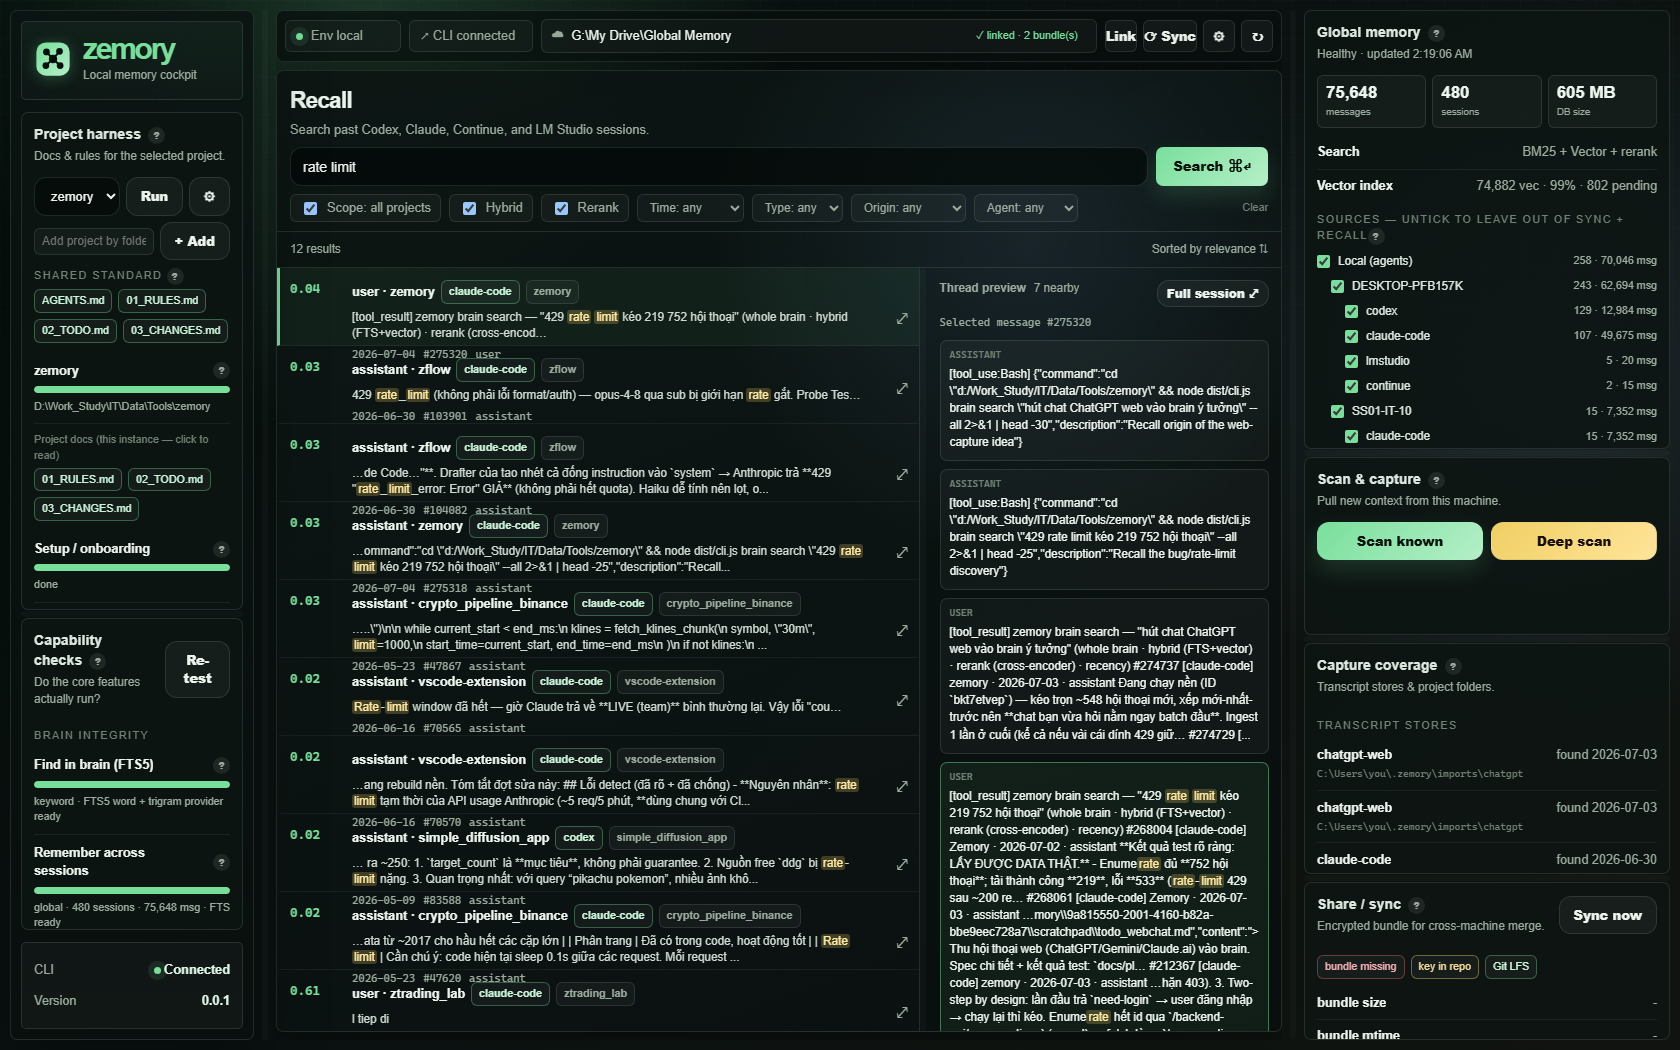
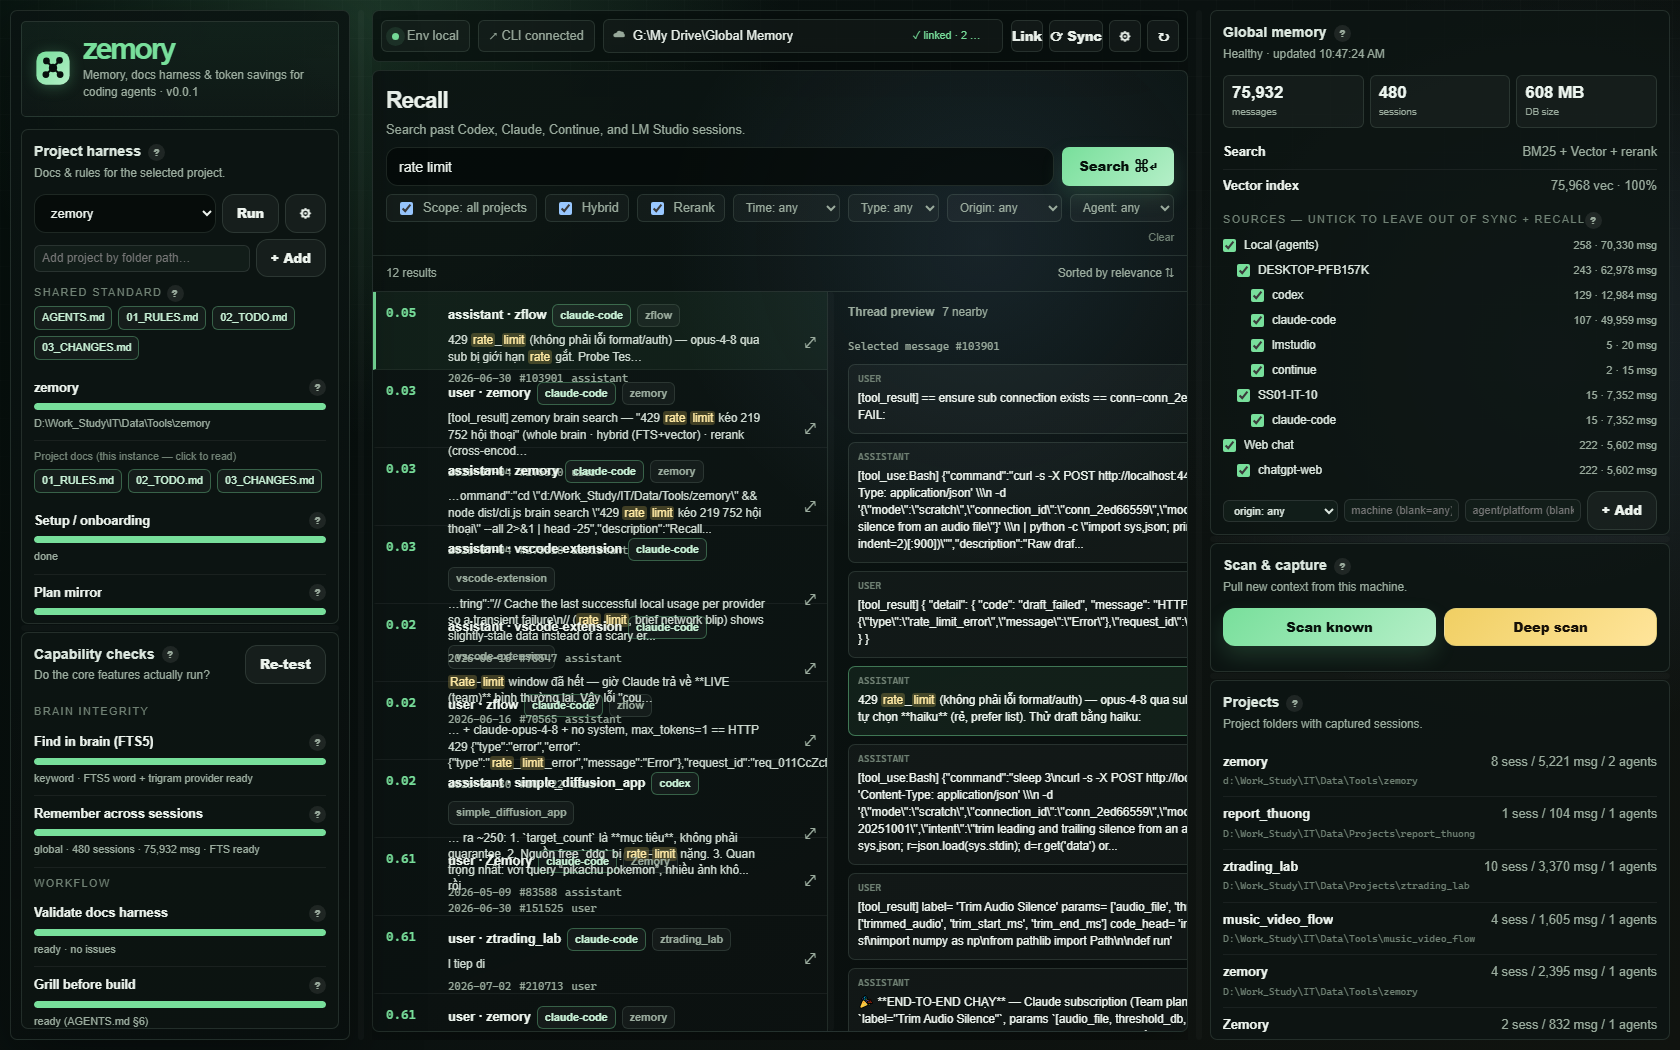
ui: trim redundant panels, sync progress modal, responsive command bar
- remove the Share/sync panel (Sync + status duplicated the top bar; the
  bundle/key/Git-LFS chips described the superseded in-repo LFS flow)
- Capture coverage -> Projects: drop the transcript-store paths (overlapped the
  Sources tree and leaked usernames); keep the project-folder breakdown
- remove the rail-foot CLI/Version block; move the version into the brand line;
  brand tagline now: "Memory, docs harness & token savings for coding agents"
- cross-machine Sync now opens a progress modal (spinner + steps + elapsed
  timer, then a result summary with a Close button) instead of one faint line;
  a full-brain export runs a few minutes on a large DB, so it no longer looks
  stuck
- command bar is responsive: status fields shrink, the drive box truncates, and
  the buttons keep their room instead of clipping on a narrow window
- workspace/recall grid fixes; refresh the cockpit hero screenshot

diff --git a/src/ui-page.ts b/src/ui-page.ts
@@ -211,9 +211,10 @@ export const PAGE = String.raw`<!doctype html><html><head><meta charset="utf-8">
   }
   .commandbar {
     display: grid;
-    grid-template-columns: 116px 124px minmax(220px, 1fr) auto;
+    grid-template-columns: auto auto minmax(0, 1fr) auto;
     gap: 8px;
     align-items: center;
+    min-width: 0;
     border: 1px solid var(--line);
     border-radius: 7px;
     background: rgba(8, 15, 14, .74);
@@ -222,6 +223,7 @@ export const PAGE = String.raw`<!doctype html><html><head><meta charset="utf-8">
   }
   .commandbar .field, .commandbar .search-command {
     min-height: 32px;
+    min-width: 0;
     border: 1px solid var(--line);
     border-radius: 6px;
     background: rgba(255, 255, 255, .035);
@@ -232,13 +234,16 @@ export const PAGE = String.raw`<!doctype html><html><head><meta charset="utf-8">
     color: var(--muted);
     white-space: nowrap;
   }
+  .commandbar .field { flex: 0 0 auto; overflow: hidden; text-overflow: ellipsis; }
   .commandbar select, .commandbar input {
     min-height: 32px;
     border-radius: 6px;
     padding: 0 9px;
     background: rgba(5, 10, 9, .5);
   }
-  .commandbar .search-command input { border: 0; box-shadow: none; background: transparent; padding: 0; }
+  .commandbar .search-command { overflow: hidden; }
+  .commandbar .search-command input { flex: 1 1 auto; min-width: 0; border: 0; box-shadow: none; background: transparent; padding: 0; }
+  .commandbar .drive-state { flex: 0 1 auto; overflow: hidden; text-overflow: ellipsis; }
   .icon-btns { display: flex; gap: 6px; justify-content: flex-end; }
   .icon-btns button { min-width: 32px; height: 32px; padding: 0; border-radius: 6px; }
   .status-deck {
@@ -504,6 +509,12 @@ export const PAGE = String.raw`<!doctype html><html><head><meta charset="utf-8">
   .bar > i { display: block; height: 100%; border-radius: 99px; transition: width .32s ease; }
   .bar > i.ind { width: 45%; animation: slide .8s infinite linear; }
   @keyframes slide { 0% { margin-left: -45%; } 100% { margin-left: 100%; } }
+  @keyframes spin { to { transform: rotate(360deg); } }
+  .spinner { width: 34px; height: 34px; border-radius: 50%; border: 3px solid rgba(255,255,255,.14); border-top-color: var(--green); animation: spin .8s linear infinite; margin: 4px auto 12px; }
+  .sync-box { min-height: 90px; }
+  .sync-step { display: flex; align-items: center; gap: 8px; font-size: 13px; padding: 4px 0; color: var(--muted); }
+  .sync-step b { color: #dce7df; font-weight: 700; }
+  .sync-done { color: var(--green); }
   .q {
     display: inline-block;
     width: 17px; height: 17px; border-radius: 50%;
@@ -627,7 +638,7 @@ export const PAGE = String.raw`<!doctype html><html><head><meta charset="utf-8">
     white-space: pre-wrap;
     font-size: 12px;
   }
-  #overlay, #docOverlay, #sessionOverlay {
+  #overlay, #docOverlay, #sessionOverlay, #syncOverlay {
     display: none;
     position: fixed;
     inset: 0;
@@ -747,7 +758,7 @@ export const PAGE = String.raw`<!doctype html><html><head><meta charset="utf-8">
         <span class="brand-logo"><svg viewBox="0 0 32 32" xmlns="http://www.w3.org/2000/svg" aria-hidden="true"><defs><linearGradient id="zbrand" x1="0" y1="0" x2="1" y2="1"><stop offset="0" stop-color="#78df9b"/><stop offset="1" stop-color="#b5efc8"/></linearGradient></defs><rect x="2" y="2" width="28" height="28" rx="8" fill="url(#zbrand)"/><g stroke="#08100e" stroke-width="1.7" stroke-linecap="round" stroke-linejoin="round" fill="#08100e"><path fill="none" d="M16 16 L10.5 10 M16 16 L21.5 9.5 M16 16 L22 21.5 M16 16 L10 21.5"/><circle cx="16" cy="16" r="2.7"/><circle cx="10.5" cy="10" r="2"/><circle cx="21.5" cy="9.5" r="2"/><circle cx="22" cy="21.5" r="2"/><circle cx="10" cy="21.5" r="2"/></g></svg></span>
         <div class="brand-text">
           <h1>zemory</h1>
-          <p>Local memory cockpit</p>
+          <p>Memory, docs harness & token savings for coding agents · v0.0.1</p>
         </div>
       </div>
       <div class="rail-scroll">
@@ -764,10 +775,6 @@ export const PAGE = String.raw`<!doctype html><html><head><meta charset="utf-8">
           <div class="panel-head"><div><h3>Capability checks<span class="q" title="Live probes that zemory's core capabilities actually run on this machine: full-text + Vietnamese search, cross-session recall, docs-harness validation, and the grill workflow. Green bar = working. NOT about compression (dropped).">?</span></h3><p>Do the core features actually run?</p></div><button class="ghost" onclick="runChecks()">Re-test</button></div>
           <div class="panel-pad" id="checksBody"></div>
         </section>
-      </div>
-      <div class="rail-foot">
-        <div class="foot-row"><span>CLI</span><b><span class="live-dot"></span> Connected</b></div>
-        <div class="foot-row"><span>Version</span><b>0.0.1</b></div>
       </div>
     </aside>
     <div class="resize-handle vertical" data-resize="rail" role="separator" aria-orientation="vertical" tabindex="0" title="Drag to resize sidebar. Double-click to reset."></div>
@@ -854,13 +861,8 @@ export const PAGE = String.raw`<!doctype html><html><head><meta charset="utf-8">
       </section>
       <div class="resize-handle horizontal panel-split" data-resize="split" role="separator" aria-orientation="horizontal" tabindex="0" title="Drag to resize. Double-click to reset."></div>
       <section class="panel" id="coverage" data-grow="insp2" data-grow-default="1.1" style="flex-grow:1.1">
-        <div class="panel-head"><div><h3>Capture coverage<span class="q" title="Where the brain pulls from: the transcript stores it found (Claude/Codex/Continue/LM Studio folders) and the project folders those sessions ran in.">?</span></h3><p>Transcript stores &amp; project folders.</p></div></div>
+        <div class="panel-head"><div><h3>Projects<span class="q" title="Project folders that have captured sessions, with per-project session / message / agent counts.">?</span></h3><p>Project folders with captured sessions.</p></div></div>
         <div class="panel-pad" id="coveragePanel"></div>
-      </section>
-      <div class="resize-handle horizontal panel-split" data-resize="split" role="separator" aria-orientation="horizontal" tabindex="0" title="Drag to resize. Double-click to reset."></div>
-      <section class="panel" id="share" data-grow="insp3" data-grow-default=".75" style="flex-grow:.75">
-        <div class="panel-head"><div><h3>Share / sync<span class="q" title="Encrypted bundle (.zemory.enc) to move memory between machines. 'Sync now' = export THIS machine's bundle into the linked Drive folder + merge every other machine's bundle there. Then run 'zemory brain embed --all' to vectorize new rows. The live DB is never synced.">?</span></h3><p>Encrypted bundle for cross-machine merge.</p></div><button class="ghost" onclick="driveSync()" title="Export my bundle to the Drive folder + merge others">Sync now</button></div>
-        <div class="panel-pad"><div id="syncMsg" class="tiny" style="margin-bottom:8px;white-space:normal"></div><div id="sharePanel"></div></div>
       </section>
     </aside>
   </div>
@@ -871,6 +873,13 @@ export const PAGE = String.raw`<!doctype html><html><head><meta charset="utf-8">
       <button class="opt" onclick="act('/sync')"><b>Sync</b><span>Add missing docs, never overwrite DB source.</span></button>
       <button class="opt warn" onclick="actConfirm('/init-fresh','Rename current docs aside (docs.old-...) and create a fresh set?')"><b>Fresh start</b><span>Keep old docs aside, create clean set.</span></button>
       <button class="opt cancel" onclick="closeMenu()">Cancel</button>
+    </div>
+  </div>
+
+  <div id="syncOverlay" onclick="if(event.target===this && !window.__syncing)closeSyncBox()">
+    <div class="modal">
+      <div class="mtitle">Cross-machine sync</div>
+      <div id="syncBox" class="sync-box"></div>
     </div>
   </div>
 
@@ -1258,10 +1267,7 @@ export const PAGE = String.raw`<!doctype html><html><head><meta charset="utf-8">
     const t = brain.totals || {};
     const vectors = brain.vectors || {};
     const info = brain.info || {};
-    const share = brain.share || {};
     const capture = brain.coverage || {};
-    const captureTotals = capture.totals || {};
-    const stores = capture.stores || [];
     const projects = capture.projects || [];
     el('hybrid').checked = !!brain.hybrid;
     el('rerank').checked = !!brain.rerank;
@@ -1290,19 +1296,7 @@ export const PAGE = String.raw`<!doctype html><html><head><meta charset="utf-8">
       sectionTitle('Tables') +
       ((info.tables || []).map(r => miniRow(r.name, fmtN(r.rows) + (r.detail ? ' · ' + esc(r.detail) : ''))).join('') || '<div class="muted">none</div>') +
       '<div class="path" style="margin-top:8px">' + esc(brain.dbPath || '') + '</div>';
-    el('sharePanel').innerHTML =
-      '<div class="chips">' + chip('bundle ' + (share.bundle && share.bundle.exists ? 'ready' : 'missing'), share.bundle && share.bundle.exists ? 'on' : 'off') +
-      chip('key ' + (share.key && share.key.exists ? 'in repo' : 'missing'), share.key && share.key.exists ? 'warn' : 'off') +
-      chip('Git LFS', share.lfs ? 'on' : 'warn') + '</div>' +
-      '<div class="mini-list" style="margin-top:8px">' +
-      miniRow('bundle size', share.bundle && share.bundle.exists ? fmtBytes(share.bundle.sizeKB) : '-') +
-      miniRow('bundle mtime', share.bundle && share.bundle.mtime ? fmtDay(share.bundle.mtime) : '-') +
-      '<div class="path">' + esc(share.bundle ? share.bundle.path : '') + '</div>' +
-      '</div>';
     el('coveragePanel').innerHTML =
-      sectionTitle('Transcript stores') +
-      (stores.length ? stores.map(s => folderLine(s.source, s.root, 'found ' + fmtDay(s.foundAt))).join('') : '<div class="muted">No transcript stores recorded yet. Run Deep scan once.</div>') +
-      sectionTitle('Project folders') +
       (projects.length ? projects.map(p => folderLine(projName(p.path), p.path, fmtN(p.sessions) + ' sess / ' + fmtN(p.messages) + ' msg / ' + fmtN(p.agents) + ' agents')).join('') : '<div class="muted">No project folders captured yet.</div>');
   }
   // Provenance tree (Local/Web × machine × agent). A ticked box = the lane is
@@ -1451,28 +1445,53 @@ export const PAGE = String.raw`<!doctype html><html><head><meta charset="utf-8">
     } catch(e){ el('sessBody').innerHTML = '<div class="muted">session error: ' + esc(e) + '</div>'; }
   }
   function closeSession(){ el('sessionOverlay').style.display = 'none'; }
+  function closeSyncBox(){ if(!window.__syncing) el('syncOverlay').style.display = 'none'; }
   async function driveSync(){
     const ds = el('driveState'), sb = el('syncBtn');
     ds.className = 'drive-state'; ds.textContent = 'syncing...'; ds.title = ''; if(sb) sb.disabled = true;
-    el('syncMsg').textContent = 'Syncing... scanning this machine + exporting bundle (this can take a moment).';
+    window.__syncing = true;
+    const syncStart = Date.now();
+    el('syncBox').innerHTML =
+      '<div class="spinner"></div>' +
+      '<div class="sync-step"><b>Syncing…</b><span id="syncElapsed" style="margin-left:auto;font-variant-numeric:tabular-nums;color:#dce7df">0:00</span></div>' +
+      '<div class="sync-step">1 · scanning this machine for new sessions</div>' +
+      '<div class="sync-step">2 · exporting your whole brain as an encrypted bundle</div>' +
+      '<div class="sync-step">3 · merging every other machine\'s bundle</div>' +
+      '<div class="sync-step">4 · embedding new vectors</div>' +
+      '<div class="sync-step tiny" style="margin-top:6px">Exports the FULL encrypted brain — on a large brain (hundreds of MB) this runs a few minutes. It is working; leave it open.</div>';
+    el('syncOverlay').style.display = 'flex';
+    const syncTimer = setInterval(function(){ var s = Math.floor((Date.now() - syncStart) / 1000), e = document.getElementById('syncElapsed'); if(e) e.textContent = Math.floor(s / 60) + ':' + String(s % 60).padStart(2, '0'); }, 1000);
     try {
       const r = await (await fetch('/drive-sync', { method: 'POST' })).json();
-      if(!r.ok){ ds.className = 'drive-state bad'; ds.textContent = '✗ sync failed'; ds.title = r.error || ''; el('syncMsg').textContent = '✗ ' + (r.error || 'sync failed'); return; }
+      window.__syncing = false;
+      if(!r.ok){
+        ds.className = 'drive-state bad'; ds.textContent = '✗ sync failed'; ds.title = r.error || '';
+        el('syncBox').innerHTML = '<div class="sync-step" style="color:var(--amber)"><b>✗ Sync failed</b></div><div class="sync-step">' + esc(r.error || 'unknown error') + '</div>' + syncCloseBtn();
+        return;
+      }
       const ms = r.merged || [];
       const added = ms.reduce((a, m) => a + (m.messagesAdded || 0), 0);
       const captured = (r.scanned && r.scanned.newMessages) || 0;
-      // Sync scans THIS machine first (so no fresh chat line is missed), then the
-      // local write + merge is done here; the Google Drive CLOUD upload is NOT —
-      // it happens in the background and is what actually carries the bundle to
-      // other machines. Report the phases honestly instead of claiming "done".
-      let msg = '✓ Scanned this machine (+' + fmtN(captured) + ' new msg captured) → wrote bundle (' + fmtBytes((r.exportedBytes || 0) / 1024) + ') + merged ' + ms.length + ' bundle(s) (+' + fmtN(added) + ' msg) + embedded ' + fmtN(r.embedded || 0) + ' new vector(s).';
-      msg += ' ⏳ Google Drive is still UPLOADING it to the cloud — not fully synced yet. Other machines receive it only after Drive finishes (watch the Drive tray icon).';
-      if(r.vectorRemaining) msg += ' · ⚠ ' + fmtN(r.vectorRemaining) + ' still to embed (model unavailable? run brain embed --all)';
-      el('syncMsg').textContent = msg;
+      ds.className = 'drive-state ok'; ds.textContent = '✓ synced';
+      // Local write + merge are done here; the Google Drive CLOUD upload happens
+      // in the background (that is what carries the bundle to other machines).
+      el('syncBox').innerHTML =
+        '<div class="sync-step sync-done"><b>✓ Local sync complete</b></div>' +
+        '<div class="sync-step">Scanned this machine · <b>+' + fmtN(captured) + '</b> new msg captured</div>' +
+        '<div class="sync-step">Exported bundle · <b>' + fmtBytes((r.exportedBytes || 0) / 1024) + '</b></div>' +
+        '<div class="sync-step">Merged <b>' + ms.length + '</b> other bundle(s) · <b>+' + fmtN(added) + '</b> msg</div>' +
+        '<div class="sync-step">Embedded <b>' + fmtN(r.embedded || 0) + '</b> new vector(s)' + (r.vectorRemaining ? ' · ⚠ ' + fmtN(r.vectorRemaining) + ' pending (run brain embed --all)' : '') + '</div>' +
+        '<div class="sync-step tiny" style="margin-top:6px">⏳ Google Drive is still uploading to the cloud in the background — other machines receive it once Drive finishes (watch the Drive tray icon).</div>' +
+        syncCloseBtn();
       await brainTick();
-    } catch(e){ ds.className = 'drive-state bad'; ds.textContent = '✗ error'; el('syncMsg').textContent = '✗ ' + e; }
-    finally { if(sb) sb.disabled = false; }
+    } catch(e){
+      window.__syncing = false;
+      ds.className = 'drive-state bad'; ds.textContent = '✗ error';
+      el('syncBox').innerHTML = '<div class="sync-step" style="color:var(--amber)"><b>✗ Sync error</b></div><div class="sync-step">' + esc(String(e)) + '</div>' + syncCloseBtn();
+    }
+    finally { clearInterval(syncTimer); if(sb) sb.disabled = false; window.__syncing = false; }
   }
+  function syncCloseBtn(){ return '<button class="ghost" style="margin-top:12px;width:100%" onclick="closeSyncBox()">Close</button>'; }
   async function brainScan(deep){
     el('brainmsg').textContent = deep ? 'Deep scanning the whole machine...' : 'Scanning known locations...';
     el('brainreport').innerHTML = '';

diff --git a/src/ui.ts b/src/ui.ts
@@ -34,34 +34,6 @@ import { type ScopeLane, scopeTree, toggleLane } from "./brain/scope.js";
 import { PAGE } from "./ui-page.js";
 import { onPath } from "./util.js";
 
-interface FileSummary {
-  exists: boolean;
-  path: string;
-  sizeKB: number;
-  mtime: string | null;
-}
-
-function fileSummary(path: string): FileSummary {
-  try {
-    const s = statSync(path);
-    return { exists: true, path, sizeKB: Math.round(s.size / 1024), mtime: s.mtime.toISOString() };
-  } catch {
-    return { exists: false, path, sizeKB: 0, mtime: null };
-  }
-}
-
-function shareSummary(projectRoot: string): {
-  bundle: FileSummary;
-  key: FileSummary;
-  lfs: boolean;
-} {
-  return {
-    bundle: fileSummary(join(projectRoot, "share", "global_memory.zemory.enc")),
-    key: fileSummary(join(projectRoot, "share", "share.key")),
-    lfs: existsSync(join(projectRoot, ".gitattributes")),
-  };
-}
-
 interface DriveSummary {
   path: string;
   linked: boolean;
@@ -207,7 +179,7 @@ function captureCoverage(limit = 10): {
   }
 }
 
-function dashboardBrain(projectRoot: string): unknown {
+function dashboardBrain(): unknown {
   const summary = brainSummary();
   const info = brainInfo();
   let vectors: { count: number; remaining: number; coverage: number | null; dims: string; error?: string };
@@ -237,7 +209,6 @@ function dashboardBrain(projectRoot: string): unknown {
     sizeKB: info.sizeKB,
     vectors,
     coverage: captureCoverage(),
-    share: shareSummary(projectRoot),
     activity: recentActivity(),
     hybrid: getHybridSetting(),
     rerank: getRerankSetting(),
@@ -321,7 +292,7 @@ export async function startUi(): Promise<void> {
     if (p === "/migrate") return json(res, analyzeMigration(target) ?? { error: "no docs dir" });
     if (p === "/check") return json(res, await runCheck(u.searchParams.get("feature") ?? "", rootP));
     if (p === "/status") return json(res, await gatherStatus(rootP));
-    if (p === "/brain-status") return json(res, dashboardBrain(target));
+    if (p === "/brain-status") return json(res, dashboardBrain());
     if (p === "/set-hybrid") {
       setHybridSetting(u.searchParams.get("on") === "1");
       return json(res, { ok: true, hybrid: getHybridSetting() });